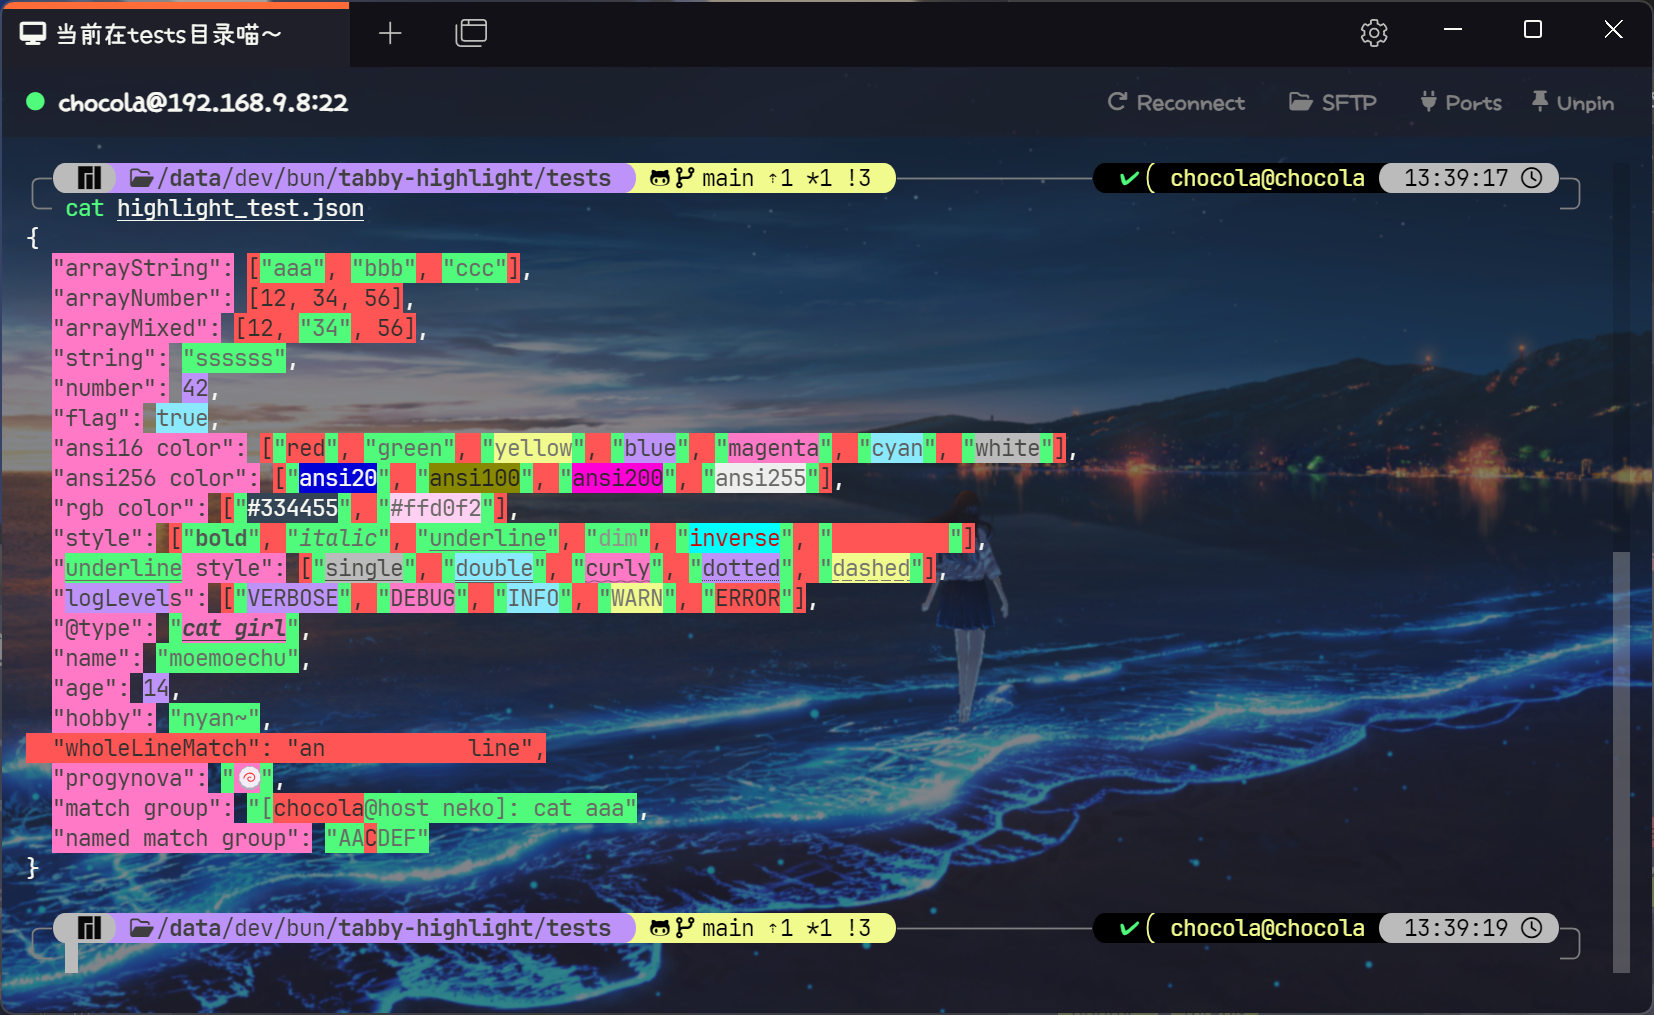
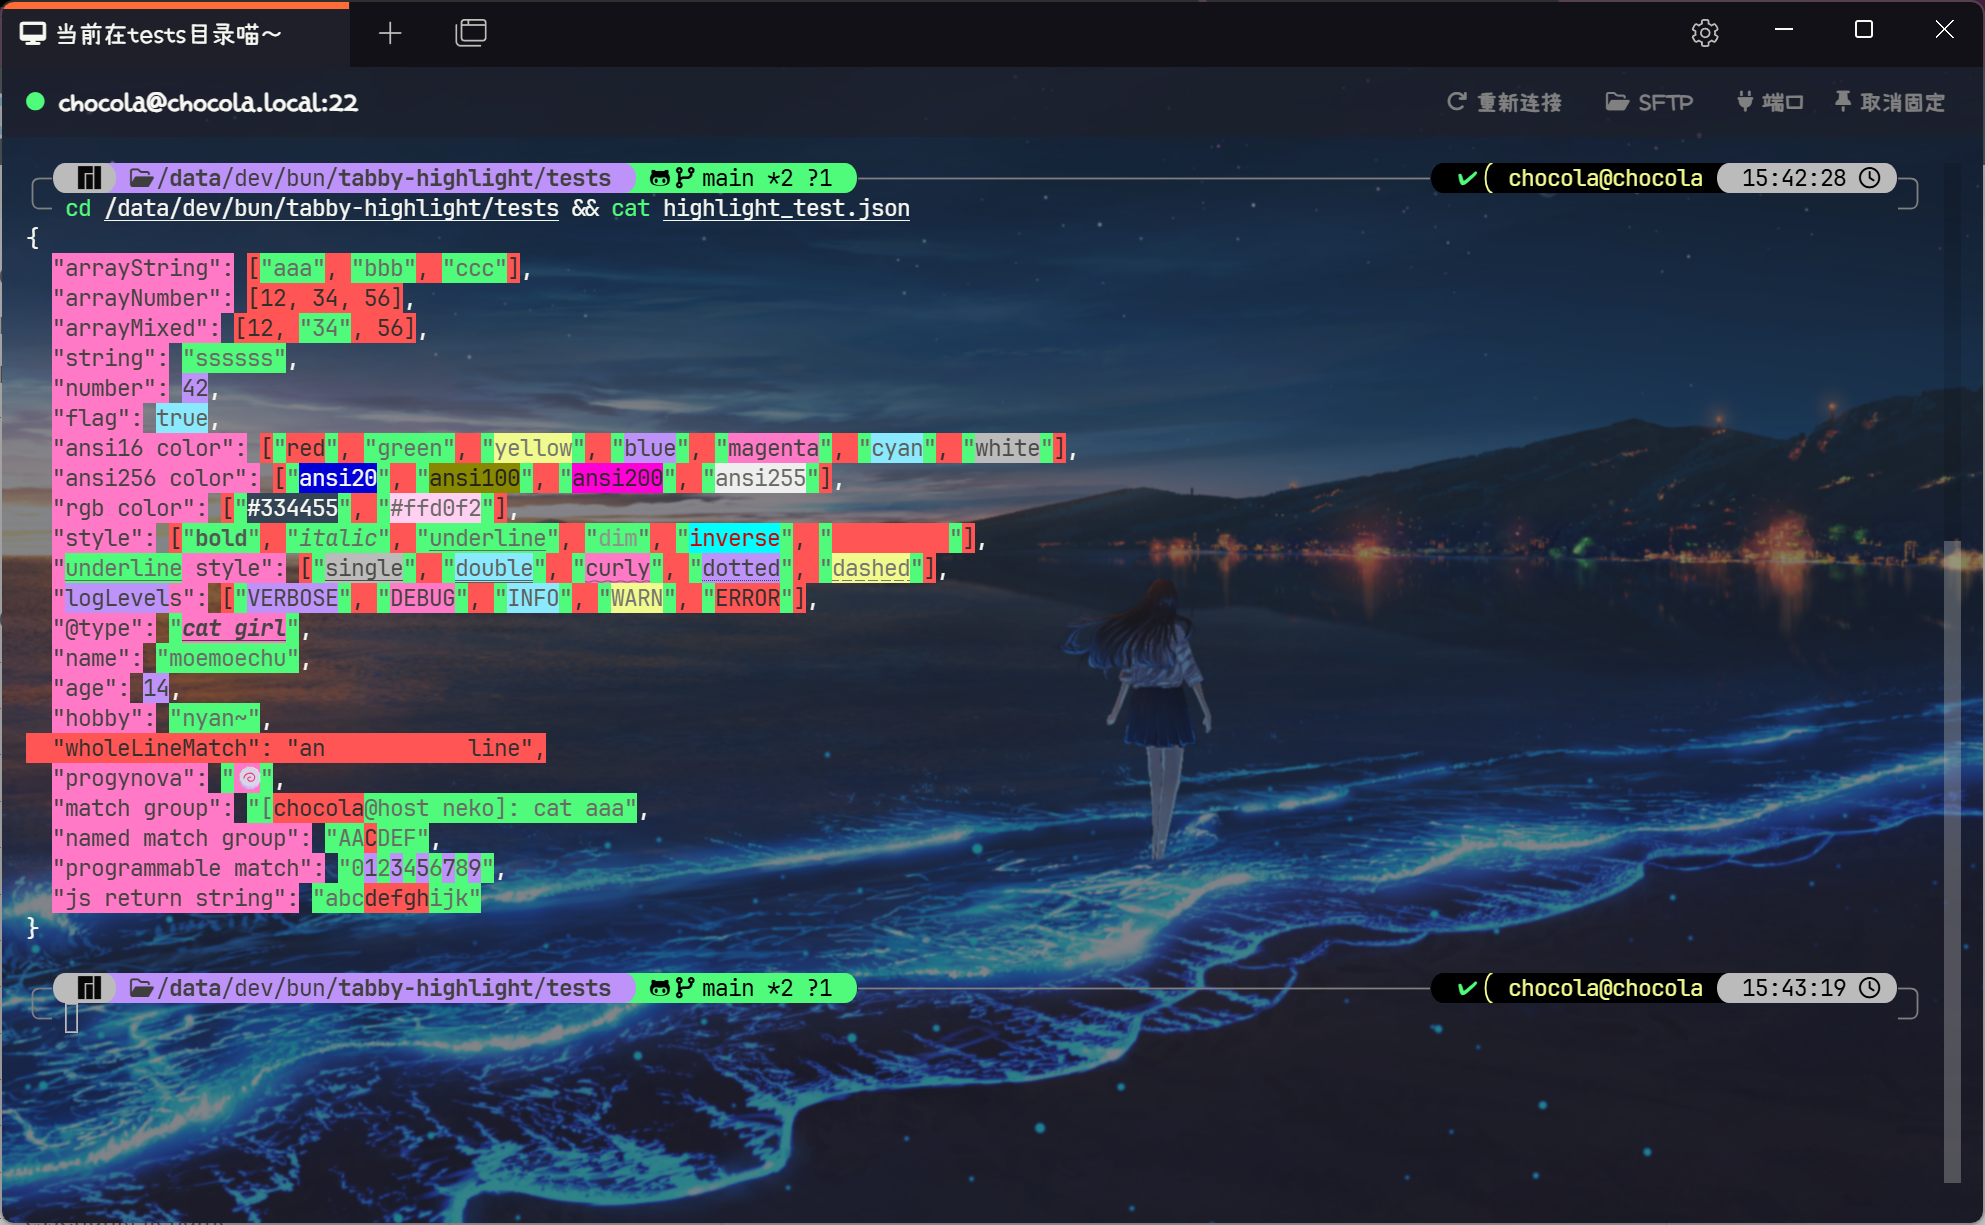
readme and demo.

diff --git a/README.md b/README.md
@@ -15,6 +15,7 @@ Tabby terminal keyword highlight plugin based on Xterm control sequence.
 - [x] Support true color(24bit RGB).
 - [x] Support regular expression keywords match.
 - [x] Support regular expression match group.
+- [x] Support programmable(javascript) highlight.
 - [x] Support priority adjustment.
 - [x] Support profile manager.
 - [x] Support profile import and export.
@@ -70,8 +71,14 @@ Enable JS switch at keyword setting
 js code must be in a function like this
 
 ```js
+// sync function only
 function highlight(input) {
   // your logic
+  // you can use lodash by using variable _
+  _.forEach(input, (char) => {
+    console.log(char);
+  });
+  return; // return nothing means do not highlight anything
 }
 ```
 
